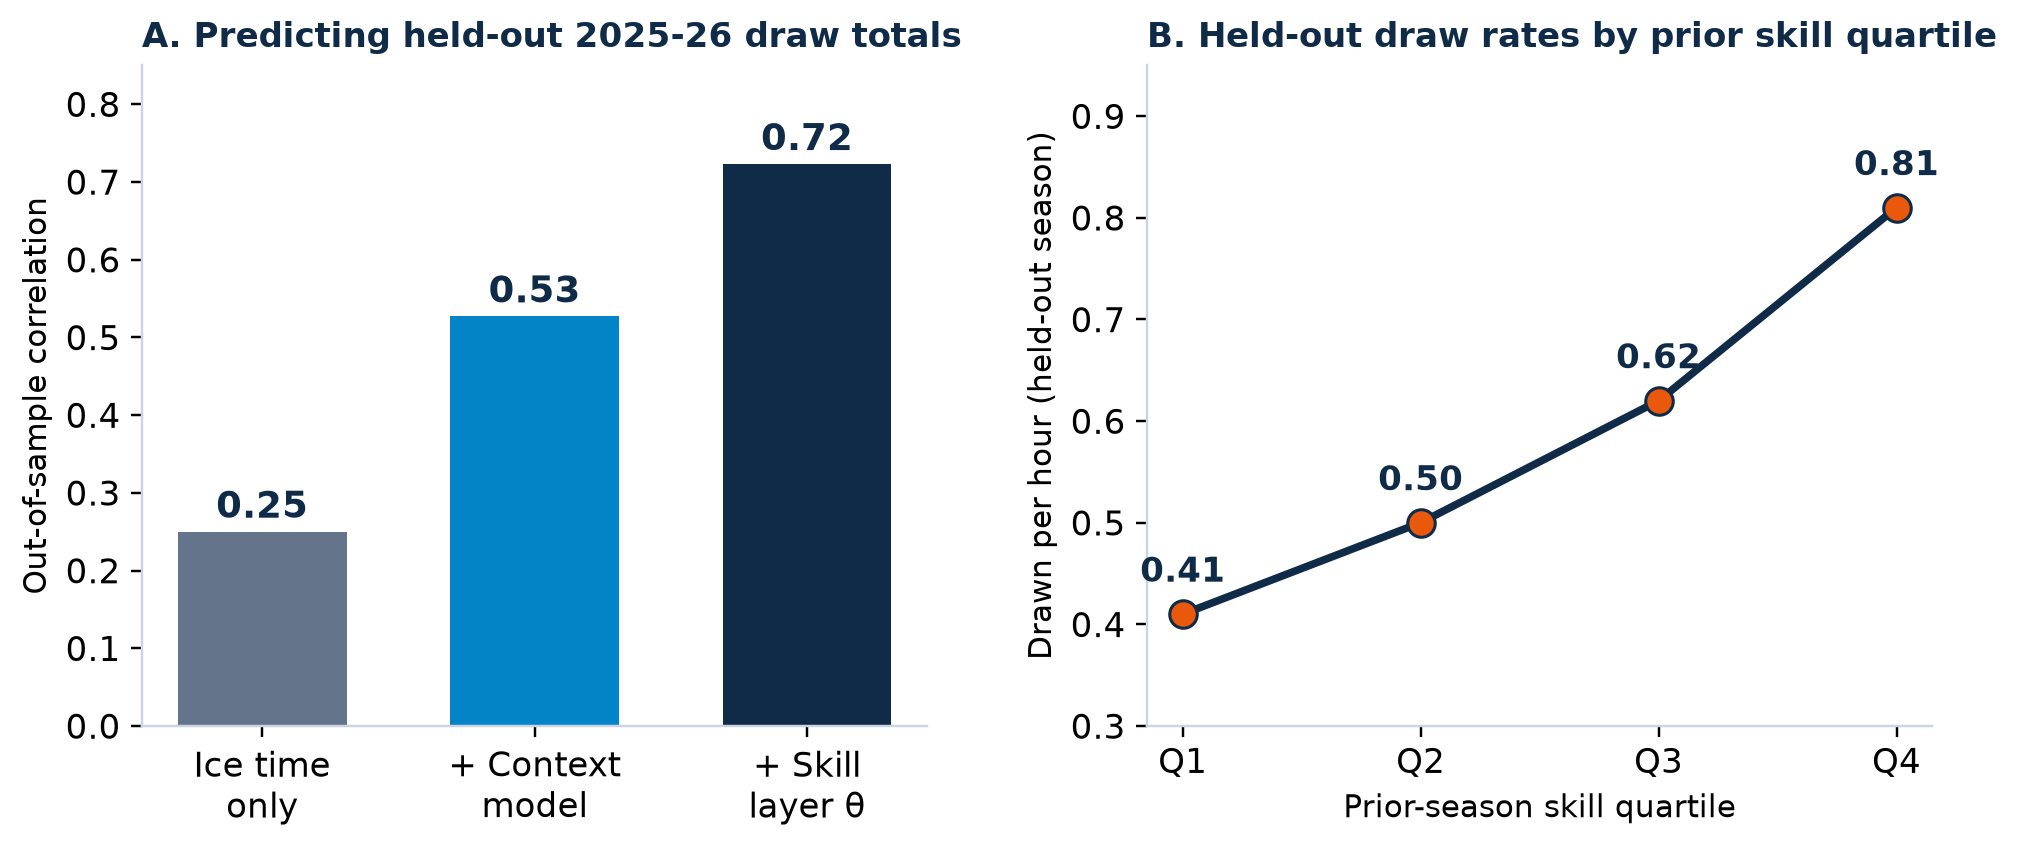
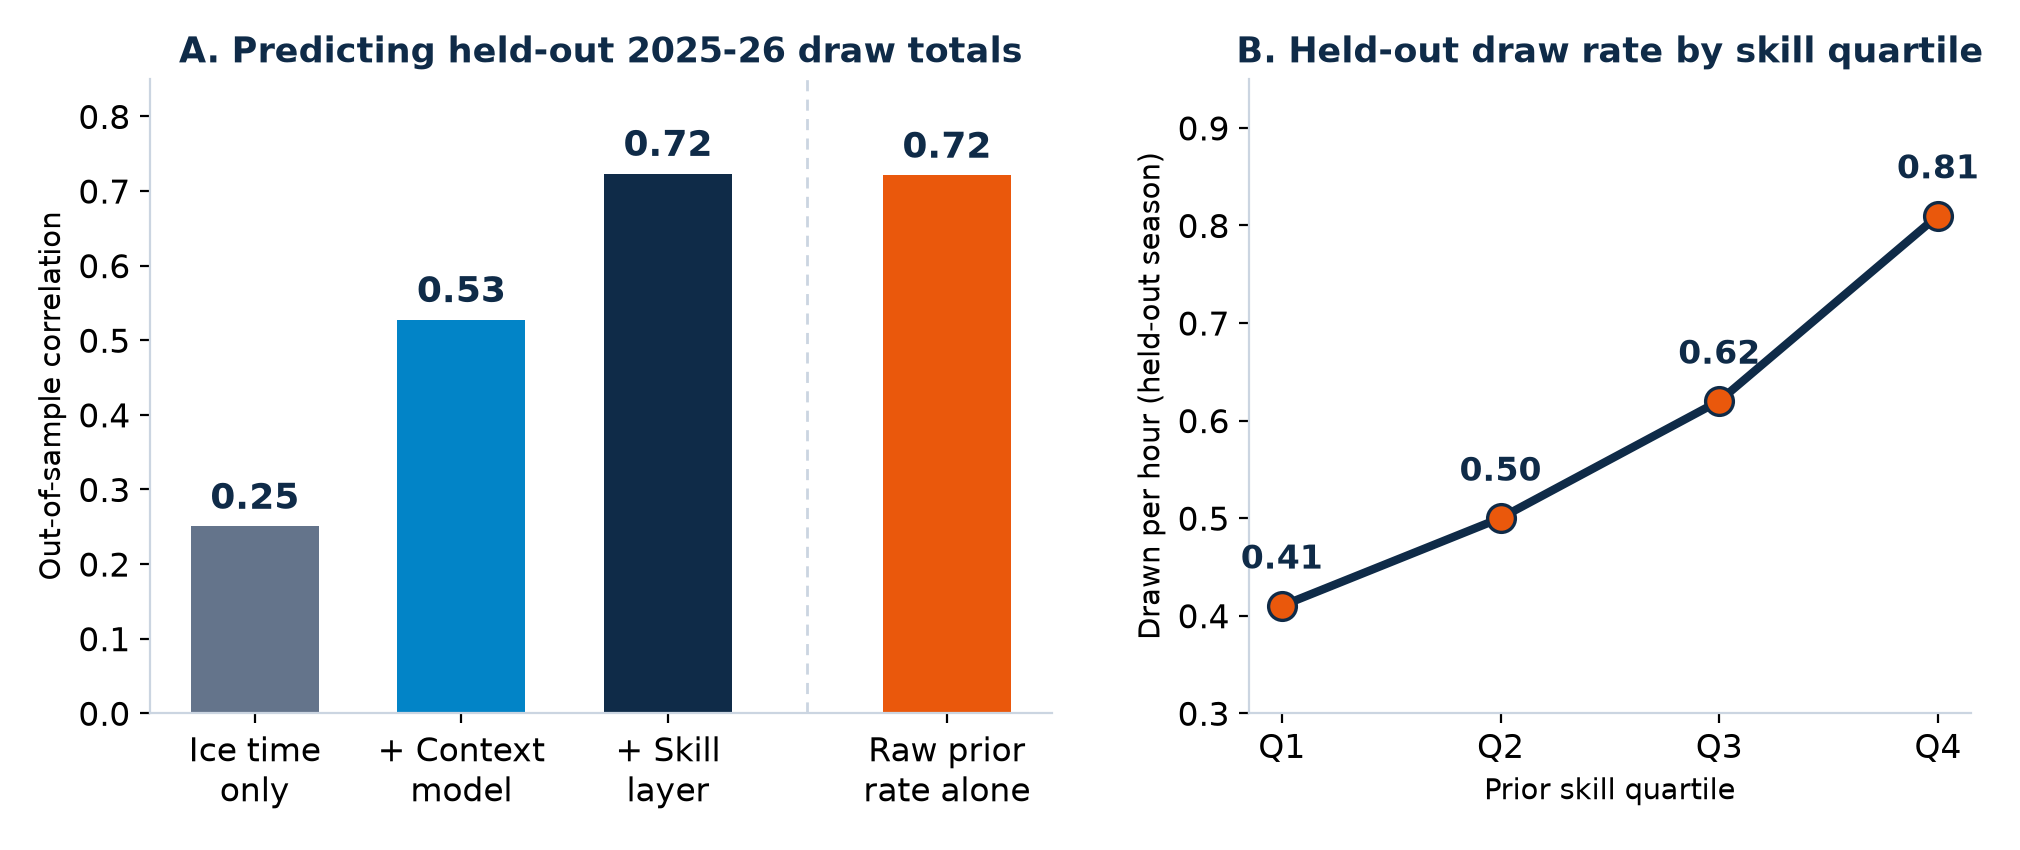
Figure 2: add the raw-prior-rate bar (0.72) beside the ladder; script that draws it
Panel A now shows ice time 0.25, context 0.53, skill 0.72 and the player's raw prior rate alone
0.72 (script 20). make_sloan_fig2.py computes panel A from committed tables; panel B's quartile
rates are 01's docstring values.

diff --git a/figures/make_sloan_fig2.py b/figures/make_sloan_fig2.py
@@ -1,0 +1,57 @@
+#!/usr/bin/env python3
+"""Figure 2 of the SSAC27 abstract: out-of-sample validation.
+
+Panel A is computed here from committed tables (the ladder from l1_oos.csv, the raw-prior-rate bar
+from analysis/20_naive_baseline.py). Panel B's quartile rates are 01_nhl_skill_model.py's output
+(matched n=558), which needs the source database, so they are entered from its docstring.
+
+Run from figures/:  python make_sloan_fig2.py   -> sloan_fig2.png
+"""
+import importlib.util, os
+import matplotlib; matplotlib.use("Agg")
+import matplotlib.pyplot as plt
+import pandas as pd
+
+HERE = os.path.dirname(os.path.abspath(__file__))
+DERIVED = os.path.join(HERE, "..", "data", "derived")
+NAVY, CYAN, ORANGE, MUTED, EDGE = "#0f2b48", "#0284c7", "#ea580c", "#64748b", "#cbd5e1"
+QUARTILE_RATES = (0.41, 0.50, 0.62, 0.81)   # 01's docstring: held-out draws per hour by prior skill quartile
+
+spec = importlib.util.spec_from_file_location("s20", os.path.join(HERE, "..", "analysis", "20_naive_baseline.py"))
+s20 = importlib.util.module_from_spec(spec); spec.loader.exec_module(s20)
+
+
+def ladder():
+    pg = pd.read_parquet(os.path.join(DERIVED, "l1_playergames.parquet")); pg["season"] = pg.season.astype(int)
+    oos = pd.read_csv(os.path.join(DERIVED, "l1_oos.csv"))
+    k, _ = s20.choose_k(pg)
+    m = s20.naive_predictions(pg, oos, k)
+    return [s20.corr(m.drawn, m[c]) for c in ("pred_flat", "pred_ctx", "pred_model", "pred_naive")]
+
+
+def main():
+    r = ladder()
+    plt.rcParams.update({"font.size": 12, "axes.spines.top": False, "axes.spines.right": False,
+                         "axes.edgecolor": EDGE, "axes.titleweight": "bold", "axes.titlecolor": NAVY})
+    fig, (a, b) = plt.subplots(1, 2, figsize=(10.1, 4.25), gridspec_kw={"width_ratios": [1.25, 1]})
+    x = [0, 1, 2, 3.35]
+    a.bar(x, r, width=0.62, color=[MUTED, CYAN, NAVY, ORANGE])
+    for xi, ri in zip(x, r):
+        a.text(xi, ri + 0.012, f"{ri:.2f}", ha="center", va="bottom", fontweight="bold", color=NAVY, fontsize=13)
+    a.axvline(2.675, color=EDGE, lw=1, ls=(0, (4, 3)))
+    a.set_xticks(x, ["Ice time\nonly", "+ Context\nmodel", "+ Skill\nlayer", "Raw prior\nrate alone"])
+    a.set_ylim(0, 0.85); a.set_ylabel("Out-of-sample correlation", fontsize=10.5)
+    a.set_title("A. Predicting held-out 2025-26 draw totals", fontsize=12.5)
+    b.plot(range(4), QUARTILE_RATES, color=NAVY, lw=3, marker="o", ms=10, mfc=ORANGE, mec=NAVY, mew=1.2)
+    for i, v in enumerate(QUARTILE_RATES):
+        b.text(i, v + 0.03, f"{v:.2f}", ha="center", va="bottom", fontweight="bold", color=NAVY, fontsize=12)
+    b.set_xticks(range(4), ["Q1", "Q2", "Q3", "Q4"]); b.set_ylim(0.3, 0.95)
+    b.set_xlabel("Prior skill quartile", fontsize=10.5); b.set_ylabel("Drawn per hour (held-out season)", fontsize=10.5)
+    b.set_title("B. Held-out draw rate by skill quartile", fontsize=12.5)
+    fig.tight_layout(w_pad=2.5)
+    fig.savefig(os.path.join(HERE, "sloan_fig2.png"), dpi=200)
+    print("ladder r:", " / ".join(f"{v:.3f}" for v in r))
+
+
+if __name__ == "__main__":
+    main()
